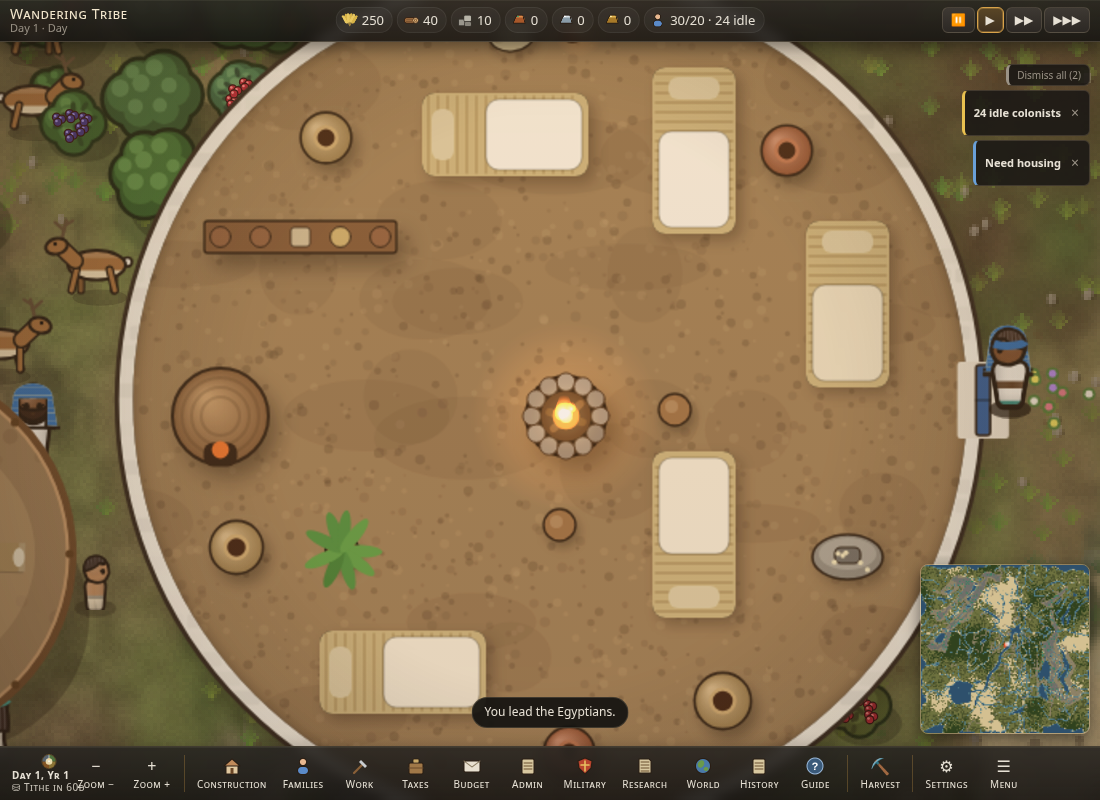
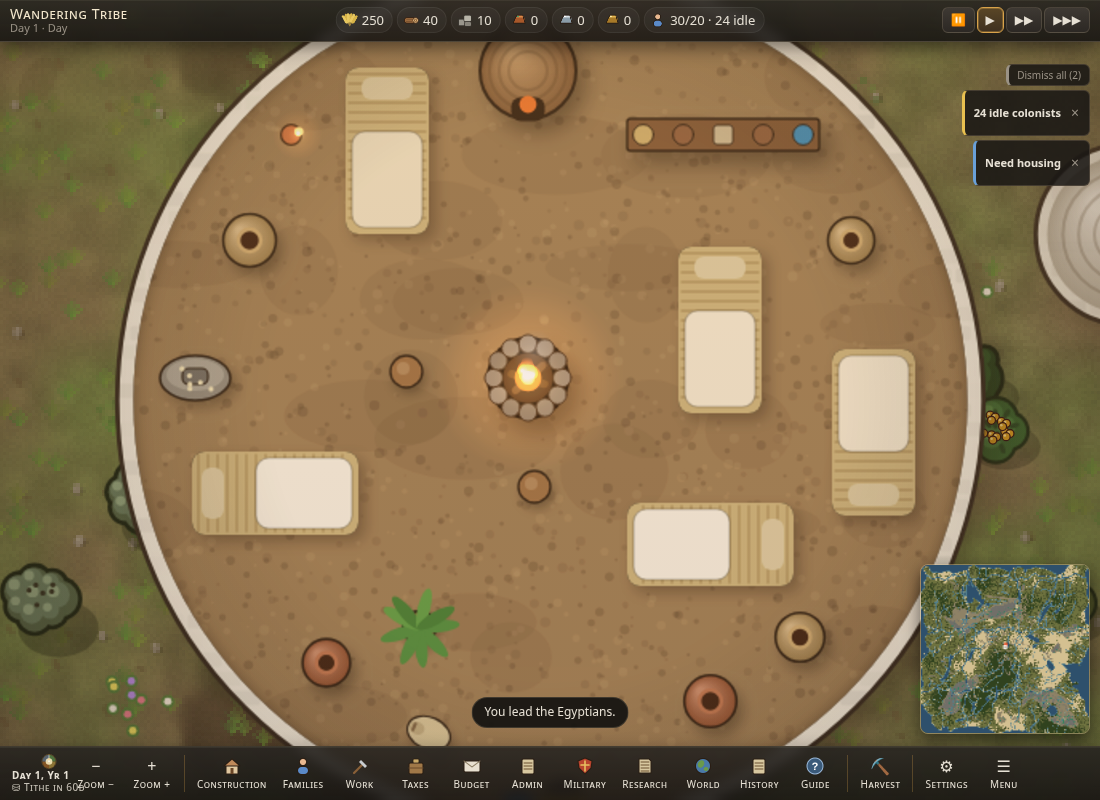
Tent seats spaced round the hearth; refreshed interior shots

diff --git a/index.html b/index.html
@@ -3759,7 +3759,7 @@ function tentIntSpr(b){const F=tentFurn(b),k=b.x+','+b.y+'|'+F.key;if(TINT[k])re
  for(let i=0;i<8;i++){const a=i/8*6.28;g.fillStyle='#5a3a1a';g.beginPath();g.arc(cx+Math.cos(a)*(r-1),cy+Math.sin(a)*(r-1),1.3,0,6.3);g.fill()}
  g.fillStyle='#9a7a54';g.fillRect(cx-4,cy+r-3,8,5);{const C=4,n=Math.ceil(s*TS/C),w=new Uint8Array(n*n),sp=[];for(let j=0;j<n;j++)for(let i=0;i<n;i++){const x=(i+.5)*C,y=(j+.5)*C;w[j*n+i]=Math.hypot(x-cx,y-cy)<r*.86&&Math.hypot(x-hx,y-hy)>7?1:0}
   for(let j=0;j<n;j++)for(let i=0;i<n;i++){const x=(i+.5)*C,y=(j+.5)*C;if(Math.hypot(x-cx,y-cy)>=r*.86&&Math.hypot(x-cx,y-(cy+r-3))<7)w[j*n+i]=1}
-  pos.forEach(([x,y,a])=>sp.push({k:'bed',x,y,r:a}));for(let i=0;i<F.beds;i++){const a=i/F.beds*6.28+.9;sp.push({k:'seat',x:hx+Math.cos(a)*11,y:hy+Math.sin(a)*9})}c.m={R:1,spots:sp,_wg:{n,C,w}}}return TINT[k]=c}
+  pos.forEach(([x,y,a])=>sp.push({k:'bed',x,y,r:a}));{const ns=Math.max(6,F.beds);for(let i=0;i<ns;i++){const a=i/ns*6.28+.9,rr2=i<6?19:30;sp.push({k:'seat',x:hx+Math.cos(a)*rr2,y:hy+Math.sin(a)*rr2*.85})}}c.m={R:1,spots:sp,_wg:{n,C,w}}}return TINT[k]=c}
 // cut-away when zoomed in close or when the tent is selected
 function tentCut(vl,vr,vt,vb,now,z){const selB=sel&&sel.i!=null?S.bl[sel.i]:null;for(const b of S.bl){if(b.t!=='tent')continue;if(!(z>=2.2||b===selB))continue;const s=bsz('tent'),X=b.x*TS,Y=b.y*TS,W=s*TS;if(X>vr||X+W<vl||Y>vb||Y+W<vt)continue;
  vx.drawImage(tentIntSpr(b),X,Y,W,W);const ins=(ax().inB.get(b)||[]).slice().sort((p,q)=>p.key<q.key?-1:1);ins.forEach(a=>{if(a.route.length)return;const ip=intPos(a,1/60);if(!ip)return;intDraw(a,ip.p,ip,now)})}}
